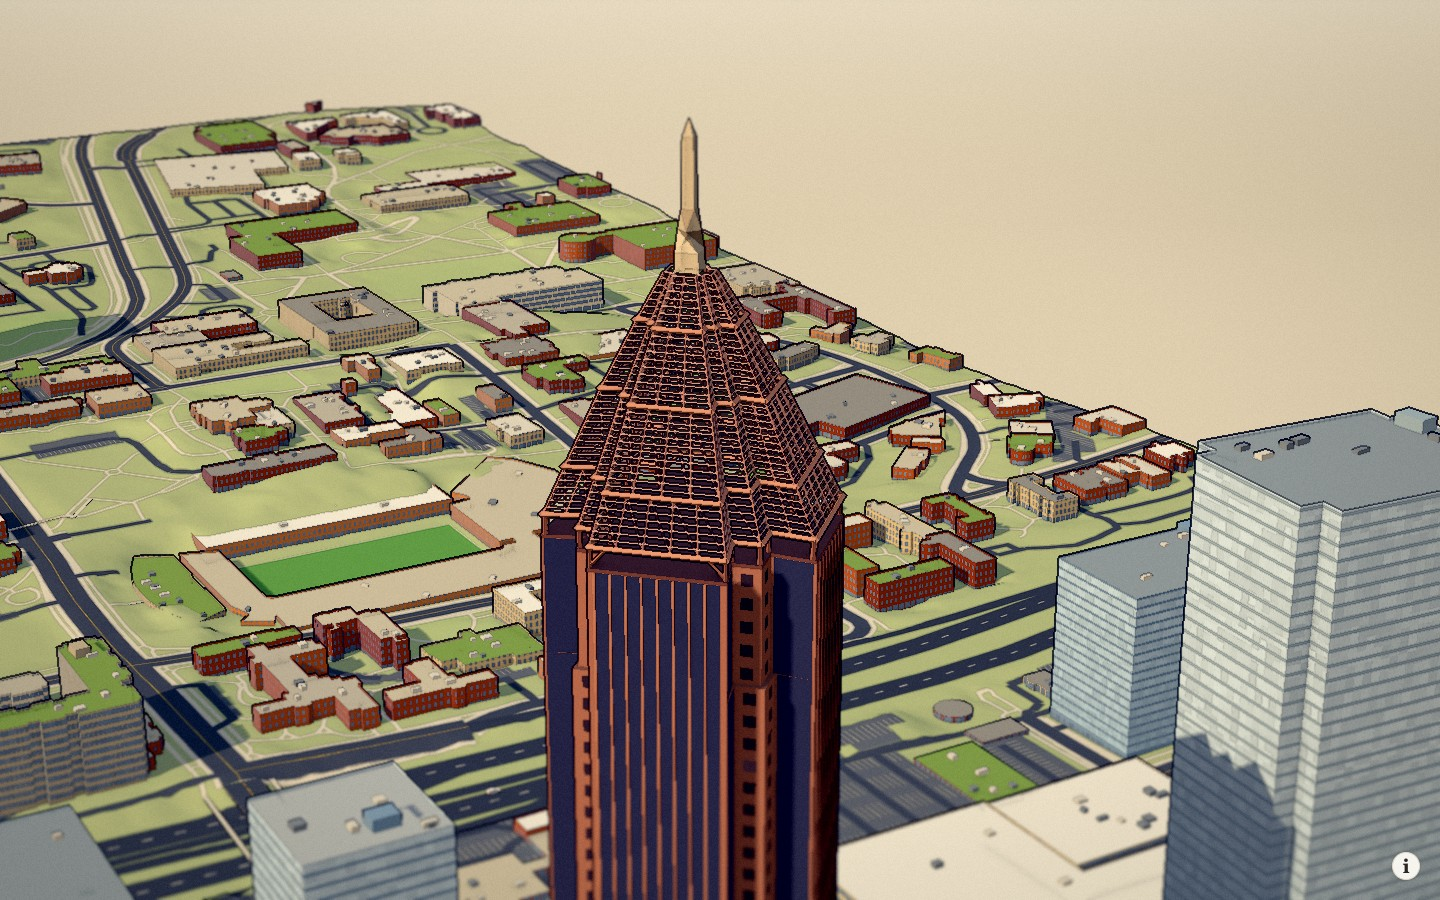
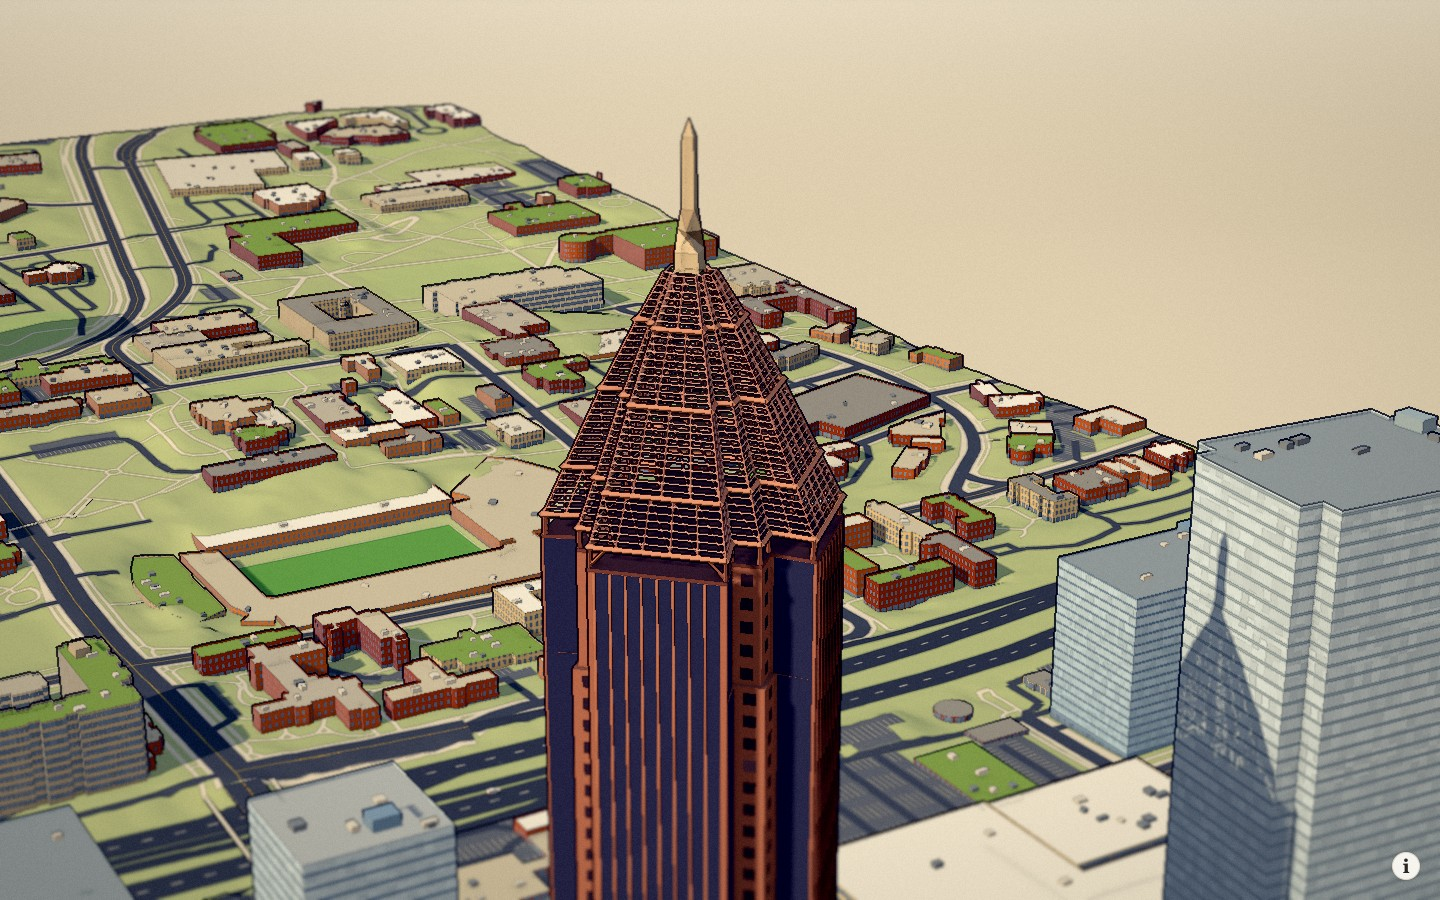
Carry the crown and obelisk into the Plaza's daylight shadow

Changed region(s): [[0.8125, 0.5911, 0.9062, 0.9333], [0.5, 0.5911, 0.5625, 0.6533]]

diff --git a/web/src/city/midtown-landmarks.test.ts b/web/src/city/midtown-landmarks.test.ts
@@ -40,6 +40,7 @@ it('seats the terraced frame on the roof and lights the separate faceted obelisk
   const roof = new Box3().setFromObject(model.group.children[0]);
   const crown = model.group.getObjectByName('Terraced rose steel') as Mesh;
   const obelisk = model.group.getObjectByName('Faceted obelisk') as Mesh;
+  expect(crown.castShadow && obelisk.castShadow).toBe(true);
   const steel = new Box3().setFromObject(crown),
     tip = new Box3().setFromObject(obelisk);
   expect(steel.min.y).toBeCloseTo(roof.max.y, 1);

diff --git a/web/src/city/midtown-landmarks.ts b/web/src/city/midtown-landmarks.ts
@@ -187,6 +187,7 @@ function tower(shell: Shell) {
     });
     const mesh = new Mesh(builder.geometry(), material);
     mesh.name = name;
+    mesh.castShadow = true;
     model.group.add(mesh);
     return material;
   }
